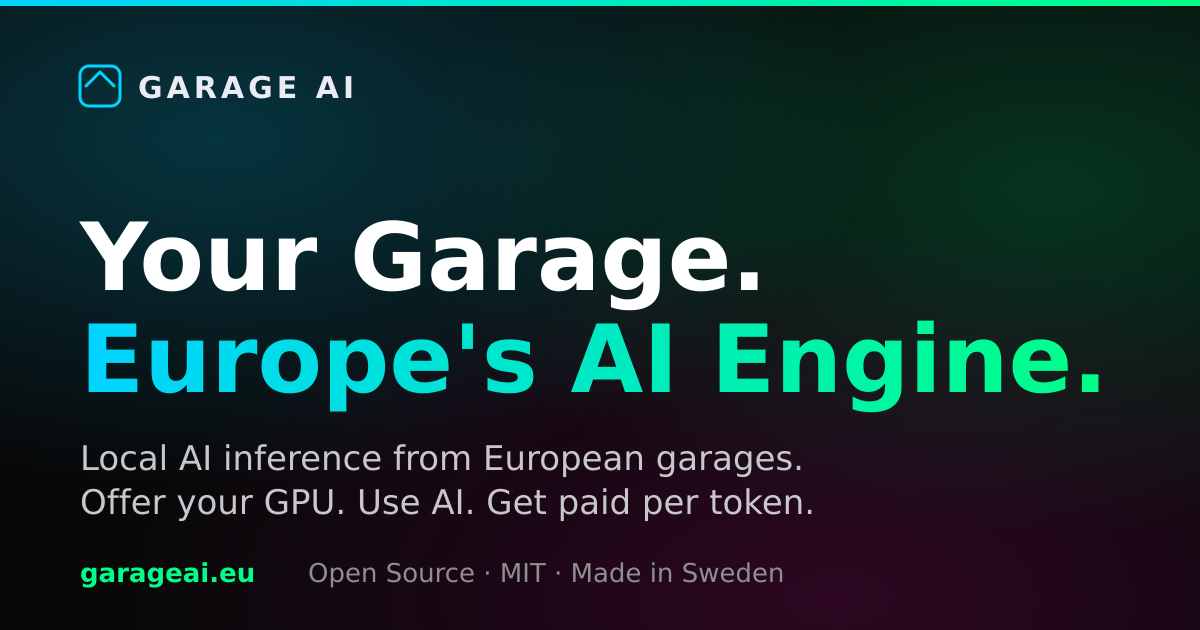
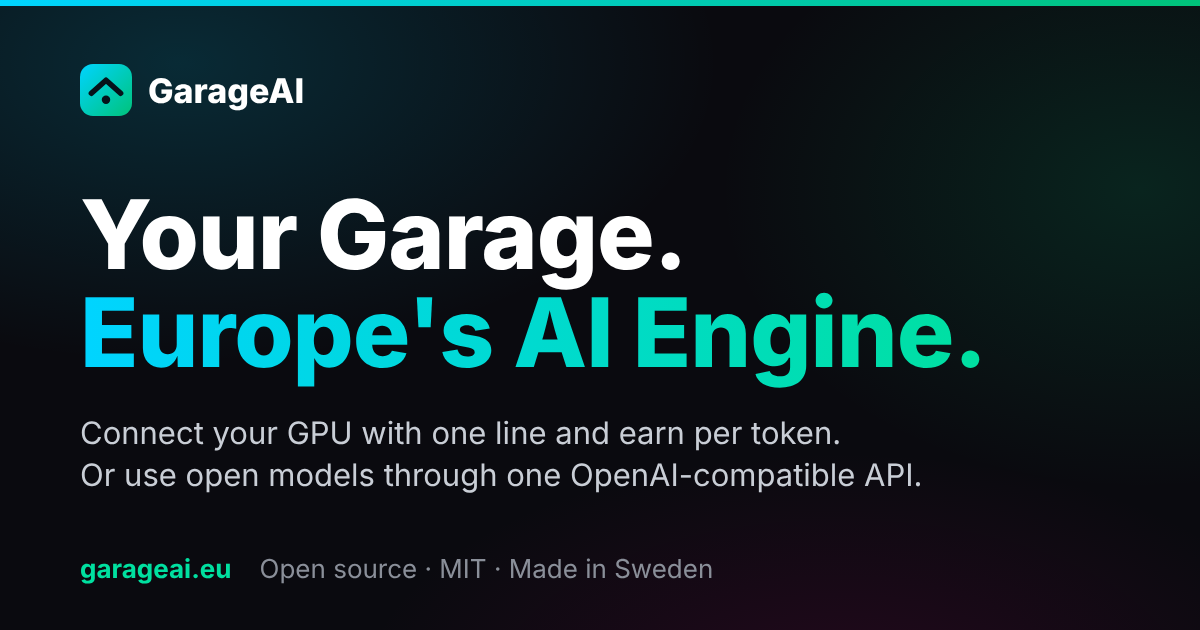
SEO/AEO: shorter title, JSON-LD for Bridge and the API, new og-image, llms-full.txt (#151)
- Title 50 characters ("GarageAI: Local AI Inference from European Garages", was 79) and
  description 160 (was 255), so neither is cut in search results; og/twitter titles follow.
- JSON-LD: one @graph with Organization (GarageAI, logo as ImageObject, areaServed Europe),
  WebSite, Service (the marketplace), WebAPI (api.garageai.eu/v1) and SoftwareApplication
  (GarageAI Bridge: macOS/Linux, MIT, free, install URL, releases, troubleshooting).
- Twitter tags use name=, not property=; dropped meta keywords, title and language.
- og-image: the new mark and "GarageAI", Bridge's one line and the API in the subtitle.
- llms-full.txt: llms.txt plus every FAQ question and answer, built from the FAQ markdown;
  linked from llms.txt and from <head>. llms.txt uses "GarageAI" as the name.
- Sitemap: lastmod (build date).

Claude-Session: https://claude.ai/code/session_01Pb1Dxxrd2gXEfcd55xezun

diff --git a/src/pages/llms-full.txt.ts b/src/pages/llms-full.txt.ts
@@ -1,0 +1,13 @@
+import type { APIRoute } from 'astro';
+import { getEntry } from 'astro:content';
+import llmsSummary from '../../public/llms.txt?raw';
+
+// llms-full.txt: public/llms.txt plus every FAQ question and answer, built from the same
+// markdown the page renders, so AI assistants can read the whole site in one request.
+export const GET: APIRoute = async () => {
+  const summary = llmsSummary.trim();
+  const faq = await getEntry('faq', 'general');
+  const qa = (faq?.data.faqs ?? []).map((f) => `### ${f.question}\n\n${f.answer}`).join('\n\n');
+  const body = `${summary}\n\n## Frequently asked questions\n\n${qa}\n`;
+  return new Response(body, { headers: { 'Content-Type': 'text/plain; charset=utf-8' } });
+};
